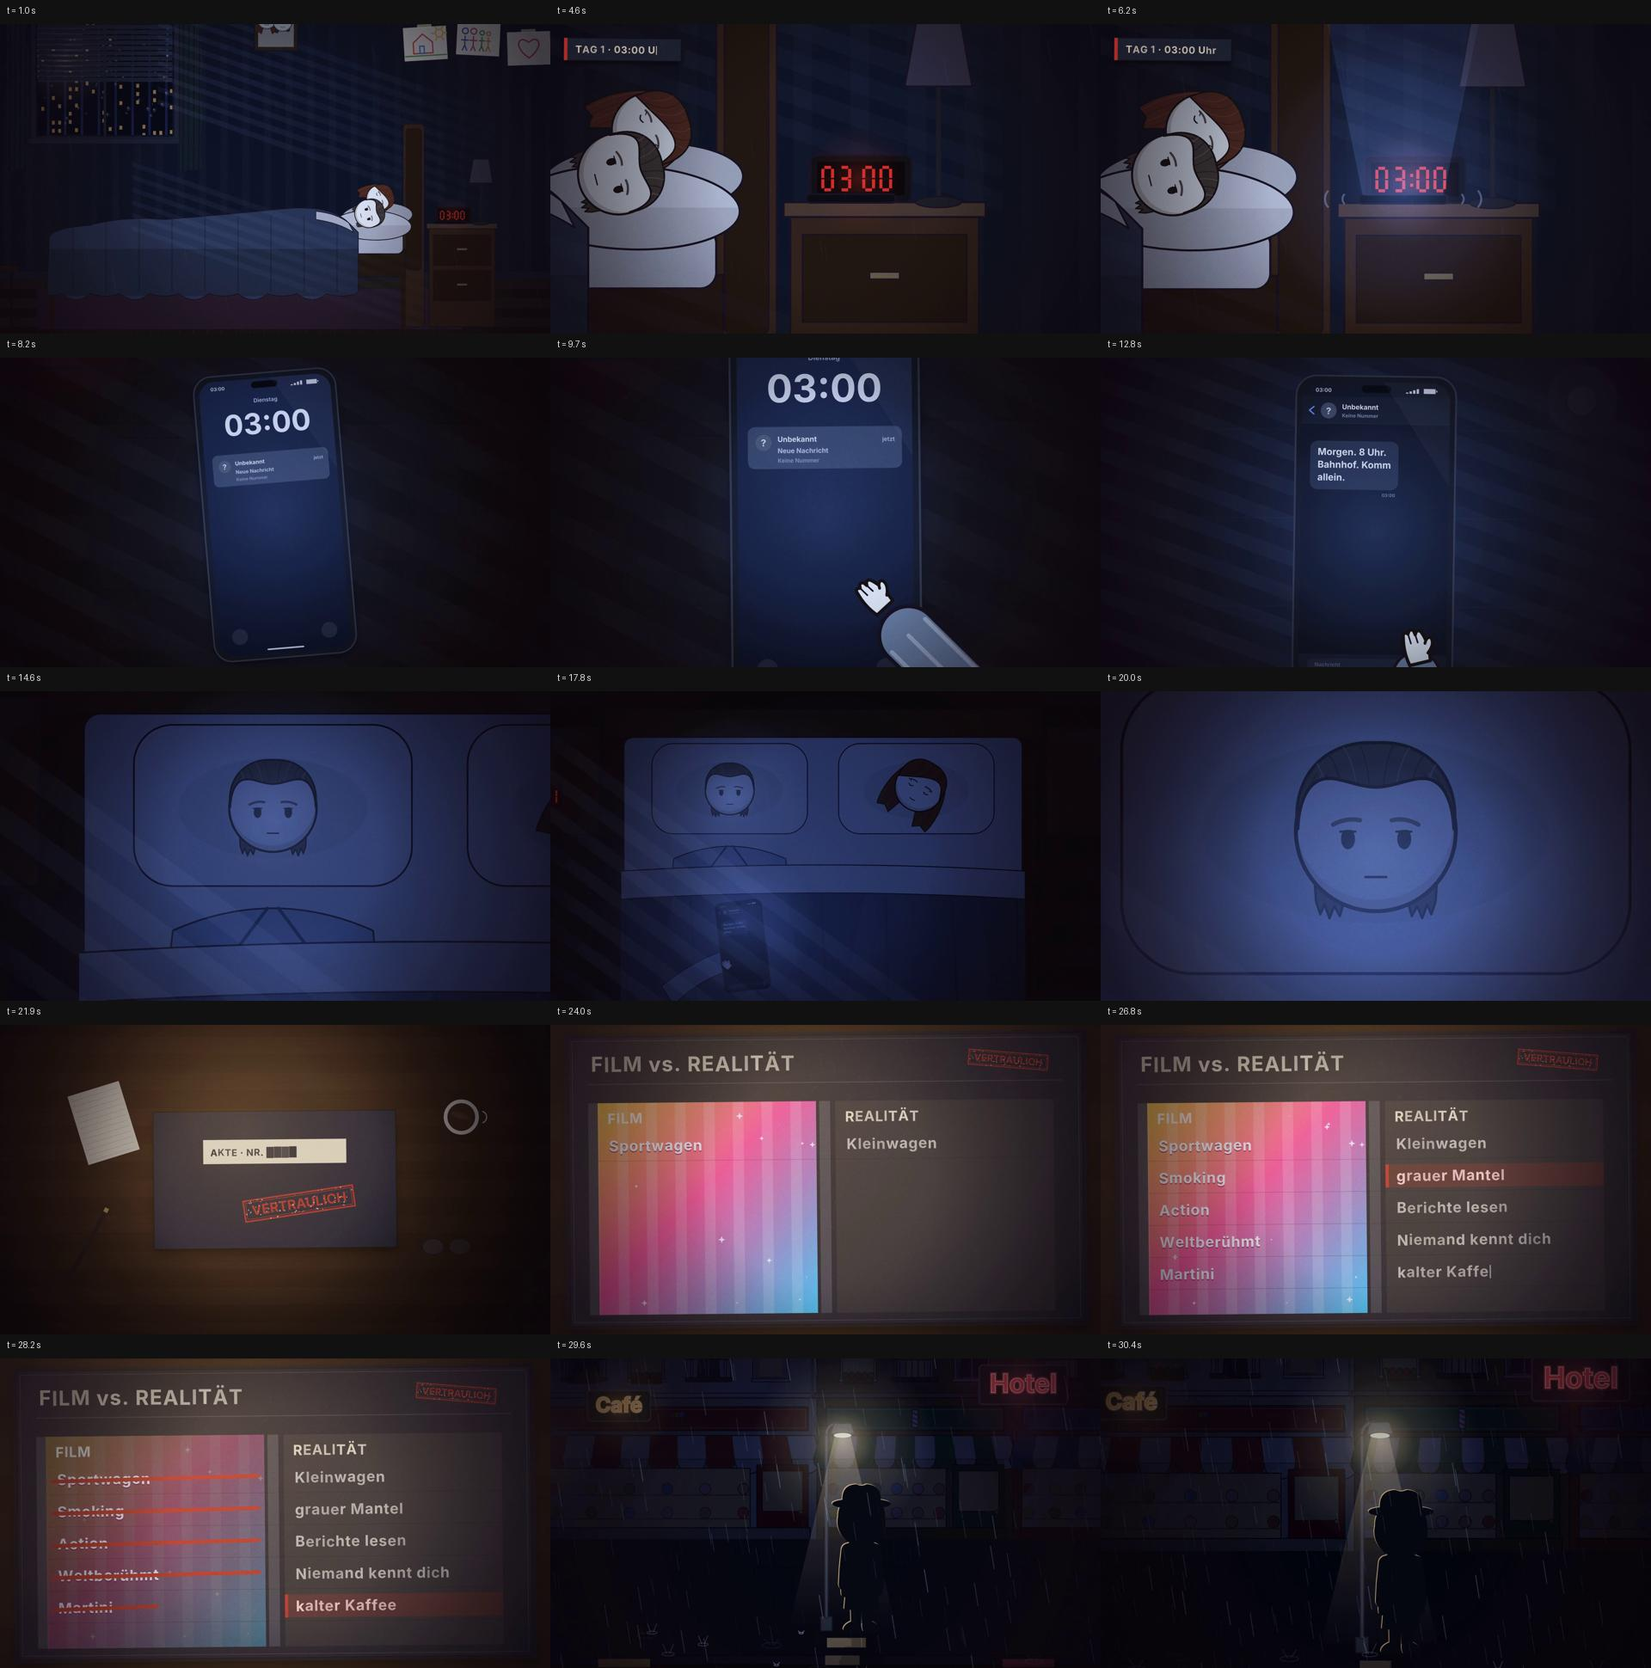
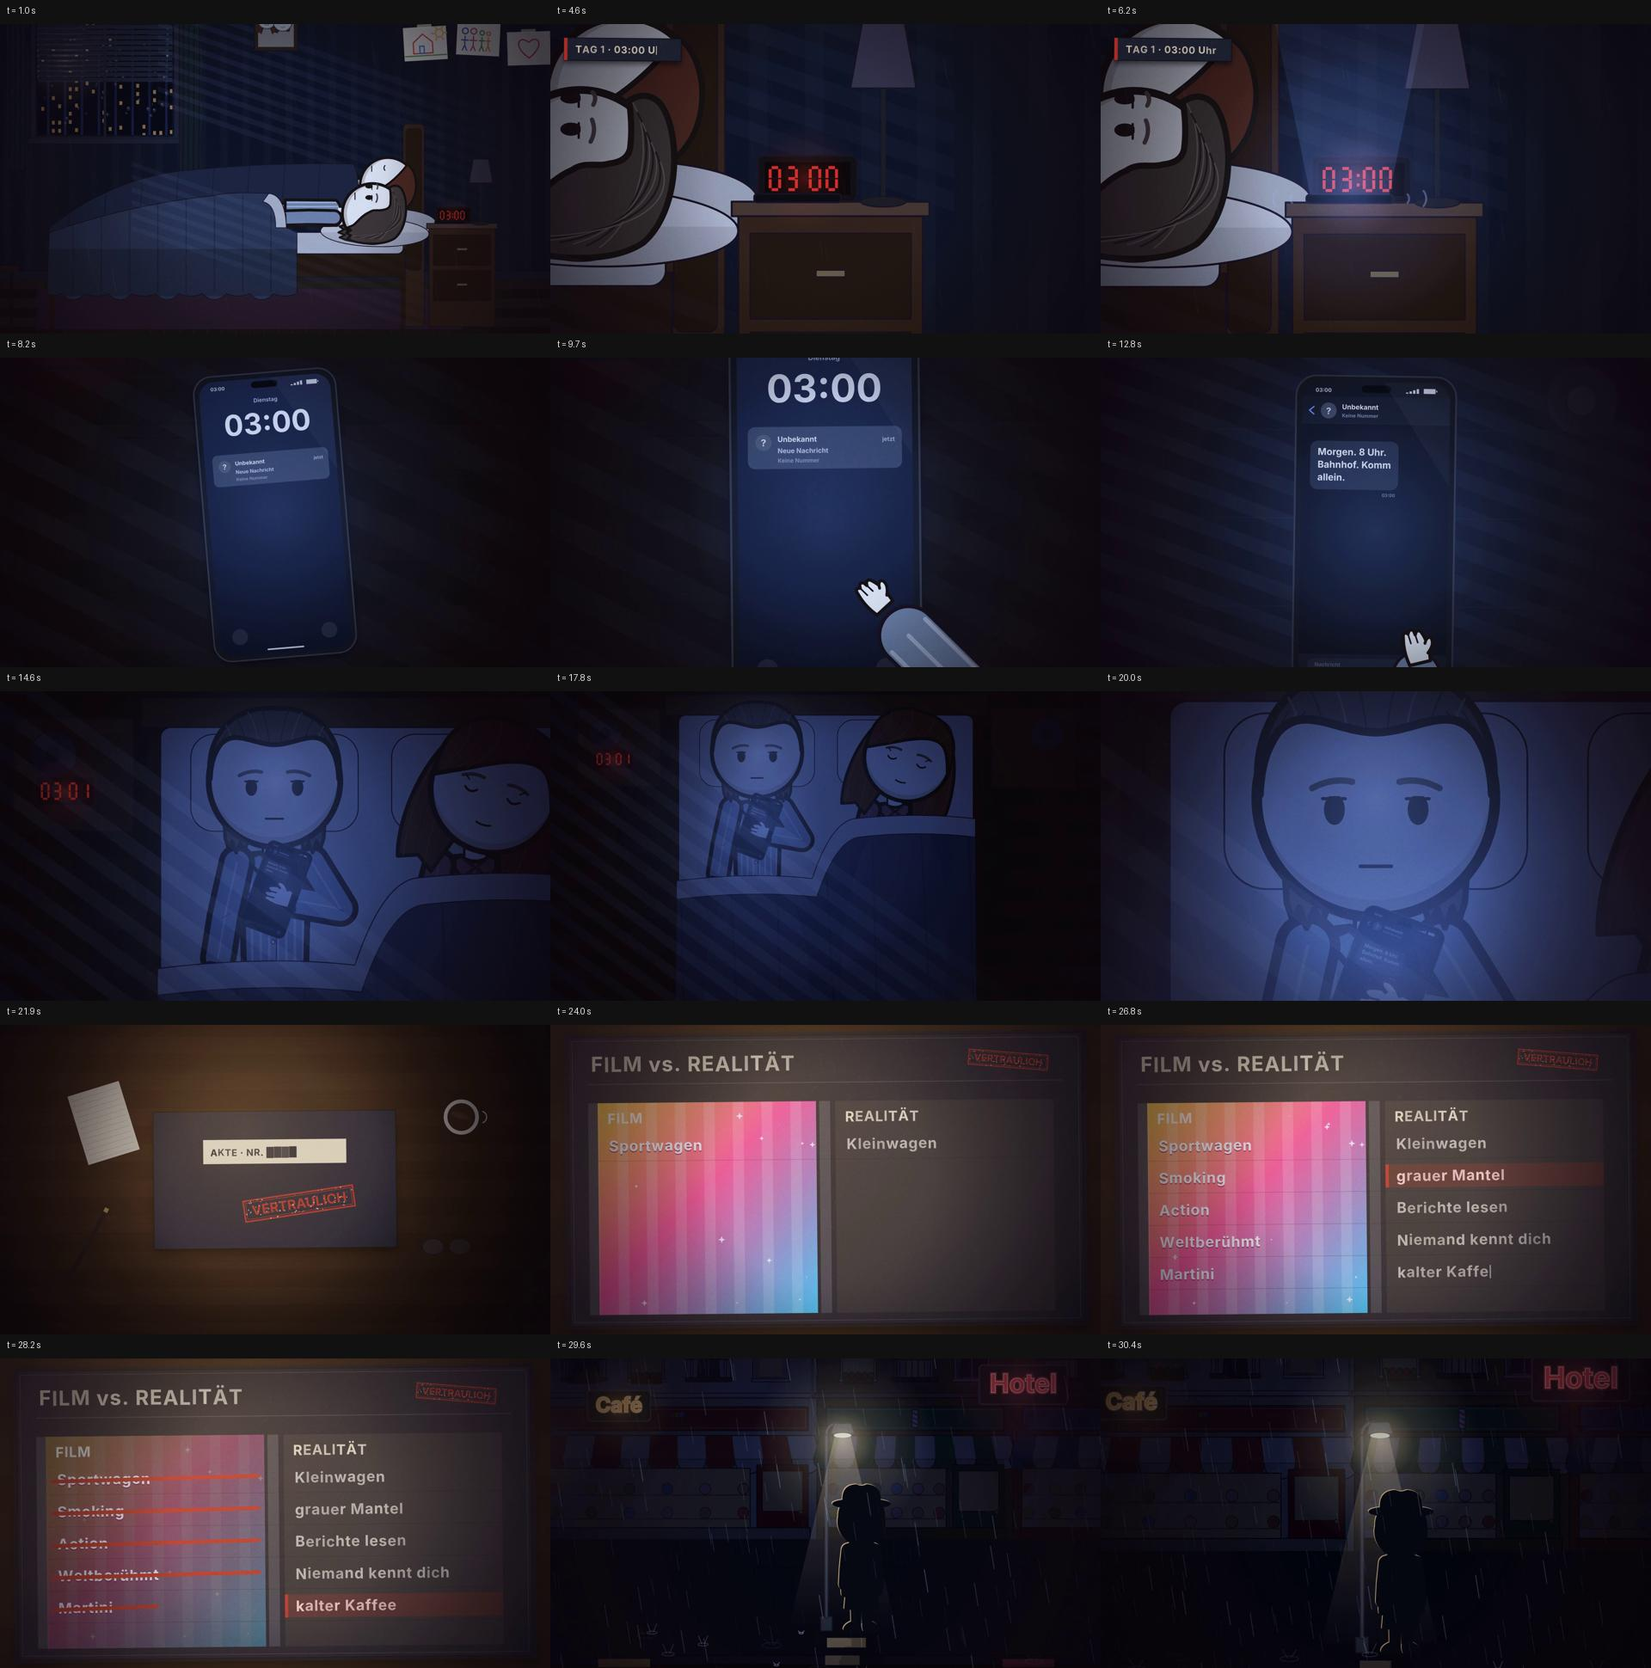
Agent draft: bodies in bed scenes, message no longer typed in sync
Claude-Session: https://claude.ai/code/session_01MkQW4pH8auw3R9Z4wo3uSW

diff --git a/films/agent-kit/bedroom.js b/films/agent-kit/bedroom.js
@@ -146,18 +146,23 @@ function bedroomSide(c, cam, t, o = {}) {
     c.beginPath(); rrect(c, 250, -860, 90, 860, 18); fs(c, BED.wood, 3); c.beginPath(); rrect(c, 262, -840, 66, 600, 14); fs(c, BED.woodD, 2);
     c.beginPath(); c.rect(-1250, -330, 1510, 120); fs(c, BED.woodD, 3); line(c, [-1240, -210, -1240, 0], 22, BED.woodD); line(c, [250, -210, 250, 0], 22, BED.woodD);
     c.beginPath(); rrect(c, -1240, -400, 1490, 90, 24); fs(c, BED.sheet, 3);
-    // far pillow + wife (behind)
-    c.beginPath(); c.ellipse(140, -470, 150, 56, -.05, 0, Math.PI * 2); fs(c, shade(BED.pillow, -.12), 3);
-    if (o.wife !== false) drawPalHead(c, 150, -545, .21, 'wife', { eyes: 'closed', mouth: 'soft' }, 1.25);
-    // near pillow + Noah (lying on his back, head toward the headboard)
-    c.beginPath(); c.ellipse(120, -430, 165, 62, .04, 0, Math.PI * 2); fs(c, BED.pillow, 3);
-    c.save(); c.beginPath(); c.ellipse(120, -430, 165, 62, .04, 0, Math.PI * 2); c.clip(); c.fillStyle = 'rgba(0,0,0,.08)'; c.fillRect(-60, -430, 400, 80); c.restore();
-    drawNoahHead(c, 105, -480, .23, o.noah || { lid: .15, mouth: 'flat' }, 1.32);
-    // blanket over both bodies, draped over the edge
-    c.beginPath(); c.moveTo(20, -440); c.quadraticCurveTo(-60, -520, -260, -500); c.quadraticCurveTo(-560, -470, -760, -455); c.quadraticCurveTo(-940, -470, -1080, -430); c.quadraticCurveTo(-1230, -420, -1250, -380);
-    c.lineTo(-1260, -150); for (let i = 0; i <= 10; i++) c.quadraticCurveTo(-1200 + i * 125 - 60, -120 + (i % 2) * 30, -1200 + i * 125, -140); c.lineTo(60, -150); c.lineTo(60, -400); c.closePath(); fs(c, BED.blanket, 3);
-    c.save(); c.clip(); for (let i = 0; i < 9; i++) line(c, [-1150 + i * 140, -470, -1180 + i * 140 + 30, -150], 6, 'rgba(0,0,0,.18)'); c.fillStyle = 'rgba(0,0,0,.2)'; c.fillRect(-1300, -330, 1400, 200); c.restore();
-    c.beginPath(); c.moveTo(20, -440); c.quadraticCurveTo(-30, -480, -120, -490); c.lineTo(-120, -455); c.quadraticCurveTo(-20, -440, 40, -400); c.closePath(); fs(c, BED.sheet, 2.5);
+    // pillows (big enough for the cartoon heads)
+    c.beginPath(); c.ellipse(150, -430, 240, 70, -.04, 0, Math.PI * 2); fs(c, shade(BED.pillow, -.12), 3);
+    // wife (far side): lying on her back, blanket up to her shoulders, head peeking above Noah's
+    if (o.wife !== false) {
+      lyingSide(c, 185, -600, .46, q => drawPal(c, Object.assign(q, { look: 'wife', side: true, outfit: 'nightie', walk: null, ink: 1.8, expr: { eyes: 'closed', mouth: 'soft' } })));
+      c.beginPath(); c.moveTo(-1250, -420); c.quadraticCurveTo(-1000, -620, -700, -660); c.quadraticCurveTo(-300, -700, 40, -690); c.quadraticCurveTo(80, -600, 40, -470); c.lineTo(-1250, -400); c.closePath(); fs(c, BED.blanketD, 3);
+      c.save(); c.clip(); for (let i = 0; i < 8; i++) line(c, [-1150 + i * 150, -700, -1170 + i * 150, -420], 5, 'rgba(0,0,0,.2)'); c.restore();
+    }
+    c.beginPath(); c.ellipse(130, -400, 230, 60, .03, 0, Math.PI * 2); fs(c, BED.pillow, 3);
+    c.save(); c.beginPath(); c.ellipse(130, -400, 230, 60, .03, 0, Math.PI * 2); c.clip(); c.fillStyle = 'rgba(0,0,0,.08)'; c.fillRect(-120, -400, 500, 80); c.restore();
+    // Noah: lying on his back (side profile turned 90°), head on the pillow, arm along his body
+    lyingSide(c, 120, -480, .5, q => drawNoahSide(c, Object.assign(q, { outfit: 'pyjama', walk: null, ink: 1.8, expr: o.noah || { lid: .15, mouth: 'flat' } })));
+    // blanket pulled up to his waist, draped over the edge
+    c.beginPath(); c.moveTo(-245, -420); c.quadraticCurveTo(-250, -560, -320, -565); c.quadraticCurveTo(-480, -575, -560, -555); c.quadraticCurveTo(-900, -520, -1250, -400);
+    c.lineTo(-1260, -150); for (let i = 0; i <= 10; i++) c.quadraticCurveTo(-1200 + i * 100 - 50, -120 + (i % 2) * 30, -1200 + i * 100, -140); c.lineTo(-200, -150); c.lineTo(-200, -400); c.closePath(); fs(c, BED.blanket, 3);
+    c.save(); c.clip(); for (let i = 0; i < 8; i++) line(c, [-1150 + i * 120, -560, -1180 + i * 120 + 30, -150], 6, 'rgba(0,0,0,.18)'); c.fillStyle = 'rgba(0,0,0,.2)'; c.fillRect(-1300, -330, 1200, 200); c.restore();
+    c.beginPath(); c.moveTo(-245, -420); c.quadraticCurveTo(-250, -560, -320, -565); c.lineTo(-345, -530); c.quadraticCurveTo(-290, -520, -290, -420); c.closePath(); fs(c, BED.sheet, 2.5);
     blindStripes(c, -900, -700, 1400, 480, 6, 54, 20, .08);
     nightstand(c, 500, { t, clock: o.clock, phoneGlow: o.phoneGlow, buzz: o.buzz });
     // foreground: dark wardrobe edge at the far left
@@ -179,29 +184,34 @@ function bedTop(c, cam, t, o = {}) {
     c.beginPath(); rrect(c, -640, -950, 1280, 1950, 30); fs(c, BED.sheet, 3);
     // pillows
     for (const s of [-1, 1]) { c.beginPath(); rrect(c, s * 300 - 250, -930, 500, 290, 70); fs(c, BED.pillow, 3); c.save(); c.clip(); c.fillStyle = 'rgba(0,0,0,.07)'; c.beginPath(); c.ellipse(s * 300, -780, 170, 90, 0, 0, Math.PI * 2); c.fill(); c.restore(); }
-    // wife: head turned away, hair over the pillow, eyes closed
-    drawPalHead(c, 310, -790, .3, 'wife', { eyes: 'closed', mouth: 'soft' }, .55);
-    // Noah: on his back, looking up (at the ceiling = the camera)
-    c.beginPath(); c.moveTo(-480, -560); c.quadraticCurveTo(-300, -640, -120, -560); c.lineTo(-110, -470); c.lineTo(-490, -470); c.closePath(); fs(c, '#8fa3bf', 3);
-    for (const s of [-1, 1]) line(c, [-300 + s * 10, -600, -300 + s * 70, -520], 6, '#2f3f5f');
-    drawNoahHead(c, -300, -780, .3, o.noahExpr || { lid: .15, mouth: 'flat' }, 0);
-    // blanket
-    c.beginPath(); c.moveTo(-650, -520); c.quadraticCurveTo(0, -560, 650, -520); c.lineTo(660, 1010); c.lineTo(-660, 1010); c.closePath(); fs(c, BED.blanket, 3);
-    c.save(); c.clip();
-    c.fillStyle = 'rgba(255,255,255,.05)'; c.beginPath(); c.ellipse(-300, 0, 230, 700, 0, 0, Math.PI * 2); c.fill(); c.beginPath(); c.ellipse(300, -20, 230, 680, .05, 0, Math.PI * 2); c.fill();
-    for (let i = 0; i < 7; i++) line(c, [-640 + i * 210, -500, -600 + i * 210 + (i % 2) * 40, 1000], 7, 'rgba(0,0,0,.16)'); c.restore();
-    c.beginPath(); c.moveTo(-650, -520); c.quadraticCurveTo(0, -560, 650, -520); c.lineTo(650, -430); c.quadraticCurveTo(0, -470, -650, -430); c.closePath(); fs(c, BED.sheet, 3);
-    // Noah's hand + phone on his chest
+    // wife: on her back, head turned toward the window, asleep; blanket up to her chest
+    drawPal(c, { look: 'wife', x: 300, y: 120, k: .72, ink: 1.8, outfit: 'nightie', tilt: .3, expr: { eyes: 'closed', mouth: 'soft' }, arms: { l: { a: .25, b: -.1 }, r: { a: .3, b: -.15 } } });
+    // Noah: on his back, looking up (= at the camera), phone in his right hand on his chest
+    const NA = { a: .55, b: -2.3 }, nk = .75, nfx = -300, nfy = 140;
+    drawNoah(c, { x: nfx, y: nfy, k: nk, ink: 1.8, outfit: 'pyjama', expr: o.noahExpr || { lid: .15, mouth: 'flat' }, arms: { l: { a: .22, b: -.06 }, r: NA } });
+    // blanket: up to Noah's waist, up to the wife's chest
+    const bl = () => { c.beginPath(); c.moveTo(-650, -230); c.quadraticCurveTo(-320, -270, -60, -240); c.quadraticCurveTo(20, -480, 120, -500); c.quadraticCurveTo(400, -530, 650, -500); c.lineTo(660, 1010); c.lineTo(-660, 1010); c.closePath(); };
+    bl(); fs(c, BED.blanket, 3);
+    c.save(); bl(); c.clip();
+    c.fillStyle = 'rgba(255,255,255,.05)'; c.beginPath(); c.ellipse(-300, 300, 230, 600, 0, 0, Math.PI * 2); c.fill(); c.beginPath(); c.ellipse(300, 100, 230, 640, .05, 0, Math.PI * 2); c.fill();
+    for (let i = 0; i < 7; i++) line(c, [-640 + i * 210, -500, -600 + i * 210 + (i % 2) * 40, 1000], 7, 'rgba(0,0,0,.16)');
+    c.fillStyle = BED.sheet; c.beginPath(); c.moveTo(-650, -230); c.quadraticCurveTo(-320, -270, -60, -240); c.quadraticCurveTo(20, -480, 120, -500); c.quadraticCurveTo(400, -530, 650, -500); c.lineTo(650, -420); c.quadraticCurveTo(400, -450, 140, -420); c.quadraticCurveTo(40, -400, -40, -160); c.quadraticCurveTo(-320, -190, -650, -150); c.closePath(); c.fill(); c.lineWidth = 3; c.strokeStyle = OUT; c.stroke();
+    c.restore(); bl(); fs(c, null, 3);
     if (o.phoneOnChest !== false) {
-      const px = -260, py = -300;
-      c.beginPath(); c.moveTo(-520, -150); c.quadraticCurveTo(-420, -230, -330, -260); c.lineTo(-300, -200); c.quadraticCurveTo(-400, -170, -480, -90); c.closePath(); fs(c, '#8fa3bf', 3);
-      c.save(); c.translate(px, py); c.rotate(-.12); phoneUI(c, -70, -120, 140, 280, { mode: 'chat', words: 6, glow: 0, t }); c.restore();
-      drawNoahHand(c, -300, -210, .3, 2.3);
+      // phone held in the right hand (hand = rig wrist), screen facing his face
+      const ex = 150 + Math.sin(NA.a) * 215, ey = -915 + Math.cos(NA.a) * 215, a2 = NA.a + NA.b, wx = nfx + (ex + Math.sin(a2) * 205) * nk, wy = nfy + (ey + Math.cos(a2) * 205) * nk;
+      c.save(); c.translate(wx - 40, wy - 30); c.rotate(.35); phoneUI(c, -65, -130, 130, 260, { mode: 'chat', glow: 0, t }); c.restore();
+      drawNoahHand(c, wx, wy, nk, -a2 + Math.PI * .05);
     }
     c.save(); c.globalCompositeOperation = 'multiply'; c.fillStyle = 'rgba(70,82,125,1)'; c.fillRect(-5000, -5000, 10000, 10000); c.restore();
     blindStripes(c, -1600, -1500, 2600, 1900, 14, 120, 44, .11);
-    if (o.phoneOnChest !== false && o.phoneGlow) { bloom(c, -260, -360, 700, '110,150,255', .45 * o.phoneGlow); bloom(c, -300, -760, 260, '130,165,255', .3 * o.phoneGlow); }
+    if (o.phoneOnChest !== false && o.phoneGlow) { bloom(c, -280, -470, 800, '110,150,255', .45 * o.phoneGlow); bloom(c, -300, -790, 360, '130,165,255', .3 * o.phoneGlow); }
     seg7(c, o.clock || '03:01', -998, -786, 52, '#ff3b2f', { colon: Math.floor(t * 2) % 2 === 0 });
   });
   return { base: '#1a1512' };
+}
+
+// a side-profile body lying on its back: head centre at (hx, hy), feet toward -x, face up
+function lyingSide(c, hx, hy, k, draw) {
+  c.save(); c.translate(hx - 1240 * k, hy - 10 * k); c.rotate(Math.PI / 2); draw({ x: 0, y: 0, k, s: -1 }); c.restore();
 }

diff --git a/films/agent-taslak/scenes.js b/films/agent-taslak/scenes.js
@@ -19,7 +19,7 @@ CUE('amb', T.cut2, { name: 'deskRoom', until: 28.9 }); CUE('amb', 28.9, { name: 
 const TAG = { t0: 3.95, t1: 8.2, corner: 'tl', text: 'TAG 1 · 03:00 Uhr', stamp: false }; dosCardCues(TAG, 1);
 const shotA = {
   name: 'A bedroom wide → clock', dur: 6.8, f(lt, Tt, t) {
-    const v = lt < 2.6 ? camAt(S(-330, -640, .8), S(-180, -600, .9), lt / 2.6) : camAt(S(-180, -600, .9), S(410, -470, 2.35), (lt - 2.6) / 1.5);
+    const v = lt < 2.6 ? camAt(S(-330, -640, .8), S(-180, -600, .9), lt / 2.6) : camAt(S(-180, -600, .9), S(490, -470, 2.3), (lt - 2.6) / 1.5);
     v.x += Math.sin(t * .6) * 6; v.y += Math.cos(t * .5) * 4;
     const buzz = t > T.vib && t < T.vib + 1.55 ? (Math.floor((t - T.vib) / .38) % 2 ? 0 : 3) : 0;
     return { set: bedroomSide, setOpts: { phoneGlow: t > T.vib ? clamp((t - T.vib) * 4, 0, 1) : 0, buzz, noah: withBlink(EX.alert, t, 6, 2), clock: '03:00' }, cam: v, vignette: .2,
@@ -42,11 +42,11 @@ const shotC = {
   } };
 const shotD = {
   name: 'D the message (POV, phone in hand)', dur: T.bett - T.msg, f(lt, Tt, t) {
-    const n = T.words.filter(w => t >= w).length, sway = Math.sin(t * 1.3) * 6;
+    const n = 6, sway = Math.sin(t * 1.3) * 6;
     return { set: (c, cam, tt) => { ceilingNight(c, cam, tt); return { base: '#0c0f18' }; }, cam: S(0, 0, 1 + lt * .012), vignette: .3,
       fx: [c => {
         c.save(); c.translate(sway, 30 + Math.cos(t * 1.1) * 5); c.rotate(.02 + sway * .001);
-        phoneUI(c, -250, -470, 500, 1000, { mode: 'chat', words: n, typing: n === 0, t, glow: 1.6 });
+        phoneUI(c, -250, -470, 500, 1000, { mode: 'chat', words: n, t, glow: 1.6 });
         // hand holding the phone from below (thumb on the side), pyjama cuff
         line(c, [120, 900, 150, 520], 170, OUT); line(c, [120, 900, 150, 520], 150, '#8fa3bf'); for (const d of [-40, 0, 40]) line(c, [120 + d, 900, 150 + d, 520], 10, '#c9d6e6');
         drawNoahHand(c, 160, 470, 1.05, Math.PI * .92);
@@ -56,14 +56,14 @@ const shotD = {
   } };
 const shotE = {
   name: 'E overhead: awake next to his sleeping wife', dur: T.sie - T.bett, f(lt, Tt, t) {
-    const v = t < T.frau ? camAt(S(-300, -720, 2.0), S(-290, -700, 1.85), lt / (T.frau - T.bett)) : camAt(S(-290, -700, 1.85), S(10, -600, 1.08), (t - T.frau) / 2.0);
+    const v = t < T.frau ? camAt(S(-300, -600, 1.2), S(-295, -590, 1.12), lt / (T.frau - T.bett)) : camAt(S(-295, -590, 1.12), S(0, -380, .8), (t - T.frau) / 2.0);
     const e = Object.assign({}, EX.alert, { look: t < 15.3 ? 0 : t < 16.3 ? .7 : .2 });
     return { set: bedTop, setOpts: { noahExpr: withBlink(e, t, 7, 5), phoneGlow: 1 }, cam: v, vignette: .2,
       screen: [c => noirGrade(c, t, { vig: .6 })] };
   } };
 const shotF = {
   name: 'F close-up: phone light on his face, heartbeat', dur: T.cut2 - T.sie, f(lt, Tt, t) {
-    const pulse = beatPulse(t), v = camAt(S(-300, -760, 3.3), S(-300, -770, 3.75), lt / Tt); v.z += pulse * .025;
+    const pulse = beatPulse(t), v = camAt(S(-300, -700, 1.95), S(-300, -720, 2.25), lt / Tt); v.z += pulse * .015;
     const e = Object.assign({}, EX.alert, { look: lt < 1.6 ? .15 : -.55 });
     return { set: bedTop, setOpts: { noahExpr: e, phoneGlow: 1.2 }, cam: v, vignette: .3,
       screen: [c => { c.save(); c.globalCompositeOperation = 'screen'; const g = c.createLinearGradient(0, H, 0, H * .3); g.addColorStop(0, `rgba(90,130,255,${.38 + pulse * .05})`); g.addColorStop(1, 'rgba(90,130,255,0)'); c.fillStyle = g; c.fillRect(0, 0, W, H); c.restore(); },

diff --git a/films/agent-kit/outfits.js b/films/agent-kit/outfits.js
@@ -10,6 +10,7 @@ const NX = {
   OUT: {
     agent:  { pants: '#1d2640', stripe: '#28324f', shoe: '#17151a', jacket: '#1f2a45', lapel: '#18213a', shirt: '#f4f2ec', tie: '#15171d', coat: '#8b8d88', coatDark: '#6c6e6a', sleeve: '#1f2a45' },
     pyjama: { pants: '#8fa3bf', stripe: '#c9d6e6', shoe: '#4a3f4a', top: '#8fa3bf', topStripe: '#c9d6e6', piping: '#2f3f5f', sleeve: '#8fa3bf' },
+    nightie: { pants: '#8a5a6e', stripe: '#a87a8c', shoe: '#4a3a44', top: '#8a5a6e', topStripe: '#a87a8c', piping: '#4a2a38', sleeve: '#8a5a6e' },
     home:   { pants: NOAH.pants, stripe: NOAH.stripe, shoe: NOAH.shoe, top: '#7a5a48', rib: '#5f4436', sleeve: '#7a5a48' },
     old:    { pants: '#4a4a4e', stripe: '#56565a', shoe: '#2a2624', coat: '#77797a', coatDark: '#5c5e60', shirt: '#e8e4dc', sleeve: '#77797a', hair: ['#b9b5b0', '#8e8a86', '#dedad5'], brow: '#9a958f' },
   },
@@ -104,7 +105,7 @@ function nxOldCoat(c, o) {
 noahTorso = function (c) {
   const o = NX.OUT[NX.cur];
   if (NX.cur === 'agent') return nxSuit(c, o, NX.p.coat);
-  if (NX.cur === 'pyjama') return nxPyjamaTorso(c, o);
+  if ((NX.cur === 'pyjama' || NX.cur === 'nightie')) return nxPyjamaTorso(c, o);
   if (NX.cur === 'home') return nxSweater(c, o);
   if (NX.cur === 'old') return nxOldCoat(c, o);
   return _nx.noahTorso(c);
@@ -122,7 +123,7 @@ noahArm = function (c, side, spec, watch, sleeve = true) {
   nLine(c, [...end, wx, wy], NOAH.ARM_W + NOAH.W * 2, NOAH.out); nLine(c, [...end, wx, wy], NOAH.ARM_W, NOAH.skin);
   if (NX.cur === 'agent' && !coat) { nLine(c, [...P(.7), ...cuff], NOAH.ARM_W + 14 + NOAH.W * 2, NOAH.out); nLine(c, [...P(.7), ...cuff], NOAH.ARM_W + 14, o.shirt); }
   nLine(c, [sx, sy, ex, ey, ...end], wdt + NOAH.W * 2, NOAH.out); nLine(c, [sx, sy, ex, ey, ...end], wdt, col);
-  if (NX.cur === 'pyjama') { c.save(); c.globalAlpha = .9; nLine(c, [sx, sy, ex, ey, ...end], 8, o.topStripe); c.restore(); }
+  if ((NX.cur === 'pyjama' || NX.cur === 'nightie')) { c.save(); c.globalAlpha = .9; nLine(c, [sx, sy, ex, ey, ...end], 8, o.topStripe); c.restore(); }
   if (coat) { const q = P(.72); nLine(c, [q[0] - 40, q[1] - 6, q[0] + 40, q[1] + 6], 14, o.coatDark); }
   // elbow crease
   nLine(c, [ex - side * 18, ey - 6, ex + side * 10, ey + 10], 4, 'rgba(0,0,0,.35)');
@@ -157,8 +158,8 @@ noahSideTorso = function (c, cave, s = 1) {
     for (const y of [-780, -680, -580, -480]) { c.beginPath(); c.arc(100, y, 9, 0, Math.PI * 2); nFill(c, '#2e2b28', 3); }
     c.beginPath(); c.moveTo(-40, -975); c.lineTo(-70, -1030); c.lineTo(60, -1030); c.lineTo(80, -960); c.closePath(); nFill(c, o.coatDark, NOAH.W * .6);
   } else {
-    body(); nFill(c, NX.cur === 'pyjama' ? o.top : o.top);
-    if (NX.cur === 'pyjama') { c.save(); body(); c.clip(); for (let x = -120; x < 120; x += 34) nLine(c, [x, -970, x, -490], 10, o.topStripe); c.restore(); body(); nFill(c, null); }
+    body(); nFill(c, (NX.cur === 'pyjama' || NX.cur === 'nightie') ? o.top : o.top);
+    if ((NX.cur === 'pyjama' || NX.cur === 'nightie')) { c.save(); body(); c.clip(); for (let x = -120; x < 120; x += 34) nLine(c, [x, -970, x, -490], 10, o.topStripe); c.restore(); body(); nFill(c, null); }
     if (NX.cur === 'home') { c.fillStyle = o.rib; c.fillRect(-114, -560, 220, 60); body(); nFill(c, null); }
   }
 };

diff --git a/films/agent-kit/people.js b/films/agent-kit/people.js
@@ -74,7 +74,8 @@ NX.pal = null;
     c.save(); c.beginPath(); c.arc(S.HX, S.HY, S.R, 0, Math.PI * 2); c.fillStyle = NOAH.shade; c.fill(); c.clip(); c.beginPath(); c.arc(S.HX - 4, S.HY - 34, S.R - 4, 0, Math.PI * 2); c.fillStyle = NOAH.skin; c.fill(); c.restore();
     c.beginPath(); c.arc(S.HX, S.HY, S.R, 0, Math.PI * 2); nFill(c, null);
     c.beginPath(); c.moveTo(180, -1420); c.bezierCurveTo(100, -1540, -200, -1540, -262, -1330); c.bezierCurveTo(-280, -1200, -250, -1080, -200, -1010); c.lineTo(-100, -1060); c.bezierCurveTo(-60, -1160, 20, -1300, 180, -1420); c.closePath(); nFill(c, L.col, NOAH.W * .8);
-    c.beginPath(); c.ellipse(150 + (e.look || 0) * 5, -1212, 20, 31, 0, 0, Math.PI * 2); c.fillStyle = NOAH.eye; c.fill();
+    if (e.eyes === 'closed') { c.beginPath(); c.moveTo(128, -1214); c.quadraticCurveTo(150, -1196, 172, -1214); c.lineWidth = 9; c.strokeStyle = NOAH.eye; c.lineCap = 'round'; c.stroke(); }
+    else { c.beginPath(); c.ellipse(150 + (e.look || 0) * 5, -1212, 20, 31, 0, 0, Math.PI * 2); c.fillStyle = NOAH.eye; c.fill(); }
     nLine(c, [118, -1092, 168, -1092], 8, NOAH.out);
     if (NX.p && NX.p.hat) nxHatSide(c);
   };
